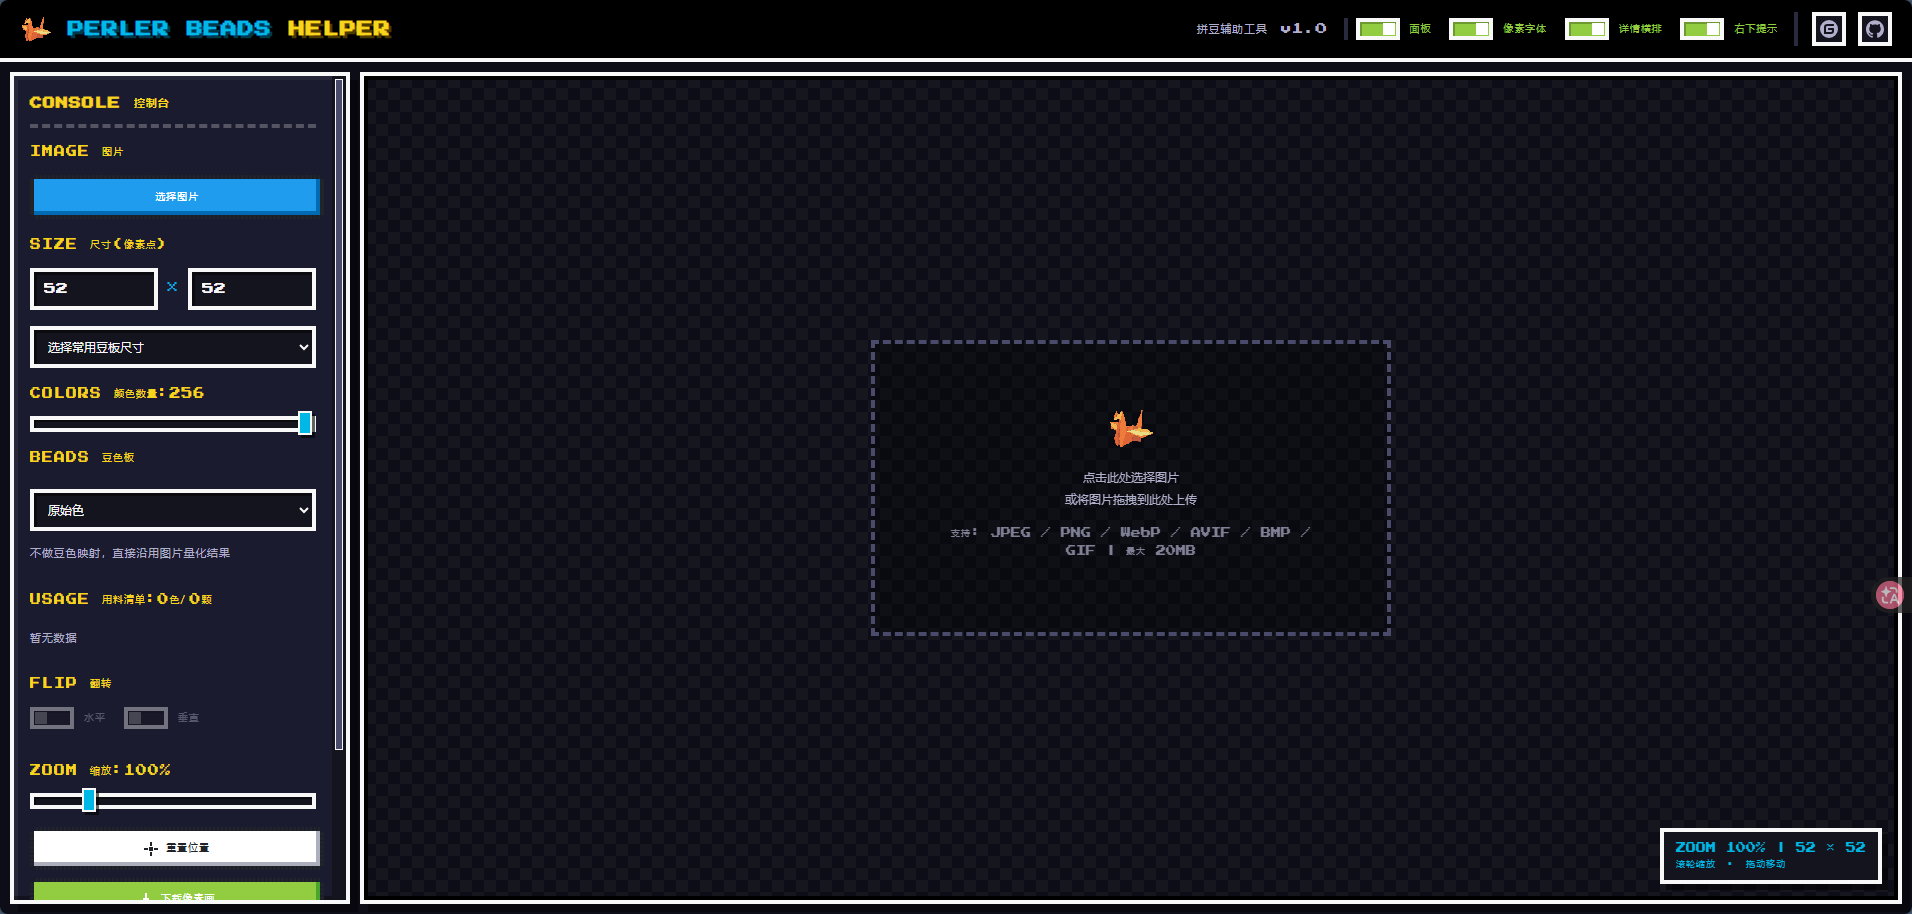
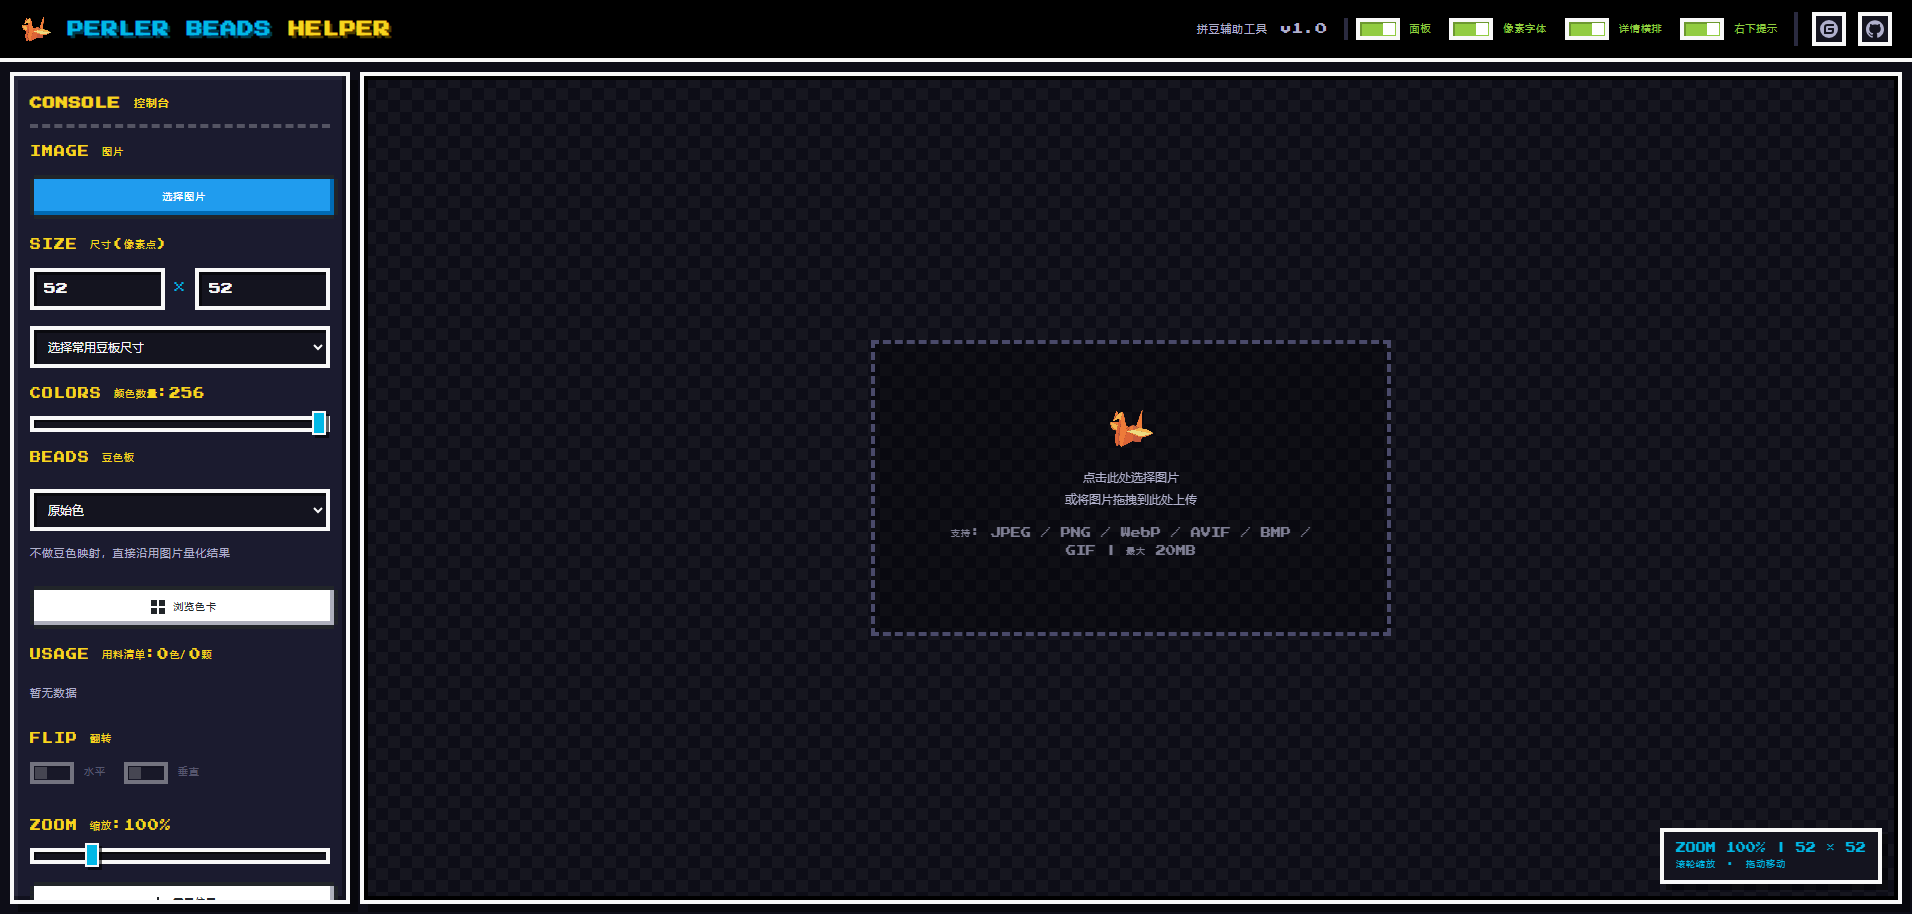
预览图

Changed region(s): [[0.0, 0.0919, 0.1851, 1.0], [0.9566, 0.6127, 1.0, 0.674], [0.0617, 0.3063, 0.1234, 0.337]]

diff --git a/README.md b/README.md
@@ -10,8 +10,10 @@
 ![preview](./preview/preview.png)
 ### 上传图片界面   
 ![preview2](./preview/preview2.png)
-### 裁剪图片弹窗界面   
+### 浏览色卡   
 ![preview3](./preview/preview3.png)
+### 裁剪图片弹窗界面   
+![preview4](./preview/preview4.png)
 ### 原始色图纸   
 ![拼豆图纸_52x52_原始色](./preview/拼豆图纸_52x52_原始色.png)
 ### Hama图纸   
